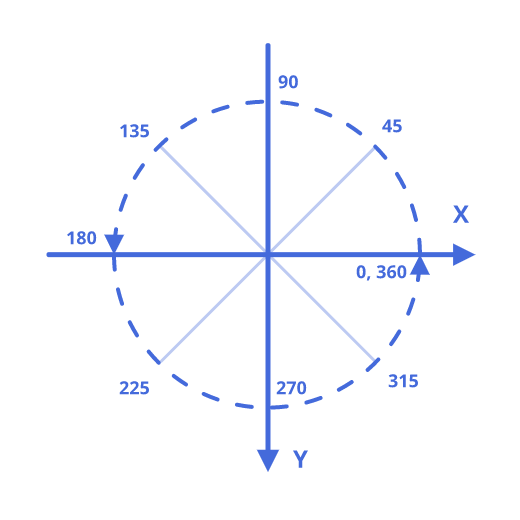
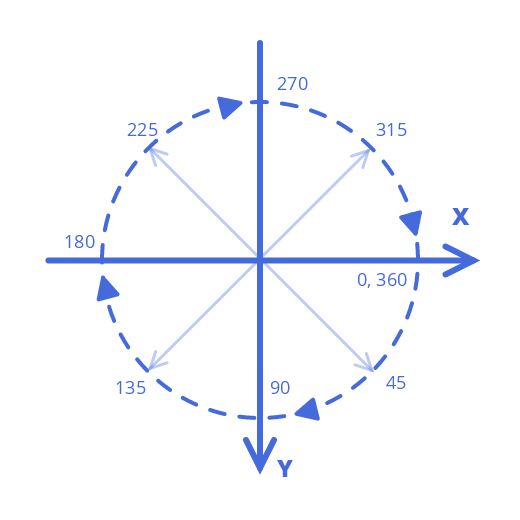
:zap: Update docs on this.angle, this.rotation

diff --git a/docs/tut-polishing-jettycat.md b/docs/tut-polishing-jettycat.md
@@ -46,7 +46,7 @@ ct.transition.circleIn(500, 0x446ADB);
 
 We can also show up our UI layers (the pause menu and the score screen) by making them transparent but slowly turning them opaque. We will use `ct.tween` there — that one catmod that is used by `ct.transition`.
 
-Most entities in ct.js have the same parameters that allow you to tweak their look and feel. We've been using `this.scale.x` and `this.scale.y` to set a copy's scale, but we can also apply it to rooms, text labels, special effects, and so on. Besides scaling, there are parameters `this.rotation`, `this.alpha` and `this.tint` that rotate an object, set its opacity and color correspondingly.
+Most entities in ct.js have the same parameters that allow you to tweak their look and feel. We've been using `this.scale.x` and `this.scale.y` to set a copy's scale, but we can also apply it to rooms, text labels, special effects, and so on. Besides scaling, there are parameters `this.angle`, `this.alpha` and `this.tint` that rotate an object, set its opacity and color correspondingly.
 
 We will change the property `this.alpha` through time. It is a number between 0 and 1. When set to 1 — its initial value —, a copy or a room will be fully opaque. When set to 0, it will be invisible. Any numbers in-between will bake an object partially transparent. The module `ct.tween` will help create a smooth transition of it.
 
@@ -219,25 +219,25 @@ Particles help liven up the game, but it still may feel stiff and static. Let's 
 
 ### Rotating the cat
 
-Every copy has a parameter `this.rotation`, that sets the visual rotation of a texture in degrees. Each copy also has `this.speed` and `this.direction` we've used, and they both define additional parameters `this.vspeed` and `this.hspeed` — the vertical and horizontal speed decomposed from speed and direction. These two can be negative values when a copy moves in the opposite direction from how the axis goes. (E.g. the X-axis points to the right, its values grow from left to right. Moving to the right makes positive `hspeed`, moving to the left makes negative `hspeed`.)
+Every copy has a parameter `this.angle`, that sets the visual angle of a texture in degrees. Each copy also has `this.speed` and `this.direction` we've used, and they both define additional parameters `this.vspeed` and `this.hspeed` — the vertical and horizontal speed decomposed from speed and direction. These two can be negative values when a copy moves in the opposite direction from how the axis goes. (E.g. the X-axis points to the right, its values grow from left to right. Moving to the right makes positive `hspeed`, moving to the left makes negative `hspeed`.)
 
-We can tie `this.vspeed` and `this.rotation` of a cat together so that it rotates when falling or flying up. It is done by simply assigning one value to another in the Draw tab.
+We can tie `this.vspeed` and `this.angle` of a cat together so that it rotates when falling or flying up. It is done by simply assigning one value to another in the Draw tab.
 
 This line will work:
 
 ```js
-this.rotation = this.vspeed;
+this.angle = -this.vspeed;
 ```
 
 Though it will result in a too strong rotation. Adding a multiplier will make it look better:
 
 ```js
-this.rotation = this.vspeed * 0.3;
+this.angle = -this.vspeed * 0.3;
 ```
 
 ### Rotating the stars
 
-With stars, we can't simply tie `this.rotation` to some ct.js' value. We can define our own, though, an apply a bit of math to turn numbers into nice wiggles. This all will remind you of spawning timers.
+With stars, we can't simply tie `this.angle` to some ct.js' value. We can define our own, though, an apply a bit of math to turn numbers into nice wiggles. This all will remind you of spawning timers.
 
 Open the `Star` type, and add this line to its On Create tab:
 
@@ -249,7 +249,7 @@ Then, in the Draw tab, add this tab:
 
 ```js
 this.wiggleTime += ct.delta * 0.2;
-this.rotation = Math.sin(this.wiggleTime) * 5;
+this.angle = Math.sin(this.wiggleTime) * 5;
 ```
 
 Here we change `this.wiggleTime` at each frame by the elapsed time, multiplied by 0.2 to slow down the animation. Then we use `Math.sin` to get a sinus of the `wiggleTime` — changing the latter at each frame will result in a smooth oscillation between -1 and 1. By multiplying it by 5, we make the effect five times stronger.

diff --git a/docs/Copy.md b/docs/Copy.md
@@ -17,9 +17,9 @@ Property | Type | Description
 `xstart`, `ystart` | `number` | The coordinates at which a copy was created.
 `speed` | `number` | Movement speed (or the length of vector `[hspeed; vspeed]`).
 `hspeed`, `vspeed` | `number` | Horizontal and vertical speed.
-`direction` | `number` | Movement direction (from 0 to 360).
+`direction` | `number` | Movement direction (from 0 to 360, from right side going clock-wise).
 `gravity` | `number` | Gravity force, as an amount of `speed` added at each frame.
-`gravityDir` | `number` | Gravity direction (from 0 to 360, default is 270).
+`gravityDir` | `number` | Gravity direction (from 0 to 360, default is 90).
 
 You can also call `this.addSpeed` to add speed vector to a Copy in a given direction.
 
@@ -38,7 +38,7 @@ There are a number of parameters that can be changed:
 |`alpha` | `number` | The opacity of the copy. 0 makes a copy invisible, 1 is the default (fully opaque) mode. All in between will make a gradual transparency change.|
 |`blendMode` | `PIXI.BLEND_MODES` (`number`) | How to mix the copy with the rest of the world. Defaults to `PIXI.BLEND_MODES.NORMAL`. Can be one of: <ul><li>`PIXI.BLEND_MODES.NORMAL`</li> <li>`PIXI.BLEND_MODES.ADD`</li> <li>`PIXI.BLEND_MODES.MULTIPLY`</li><li>`PIXI.BLEND_MODES.SCREEN`</li></ul>|
 |`depth` | `number` | The drawing layer.|
-|`rotation` | `number` | The rotation of the copy in degrees.|
+|`angle` | `number` | The rotation of the copy in degrees ranging from 0 to 360, starting from right side and going clock-wise.|
 |`scale` | `PIXI.ObservablePoint` | The scale factor of the object. You can either assign a simple value (`this.scale = 0.5;`) for uniform scaling or access its `x` and `y` compounds (`this.scale.x = 0.5;`).|
 |`tex` | `string` | The name of a ct.js texture to use. Setting `this.tex = 'NewTexture';` will change the displayed texture and reset animation. |
 |`tint` | `number` | The tint applied to the sprite. This is a hex value. A value of `0xFFFFFF` will remove any tint effect. The colors are the same as in CSS but with `0x` instead of `#`, e.g. `0xFF0000` is red, `0x00FFFF` is cyan, ect.|

diff --git a/docs/tut-making-shooter.md b/docs/tut-making-shooter.md
@@ -335,10 +335,10 @@ Let's write some code to red bullets. Add this code to `On Create` section of La
 this.speed = 8;
 this.direction = 270;
 
-this.rotation = ct.random.deg();
+this.angle = ct.random.deg();
 ```
 
-`this.rotation` rotates a copy's texture. `ct.random.deg()` returns a random value between 0 and 360, which is handy while defining angular values.
+`this.angle` rotates a copy's texture. `ct.random.deg()` returns a random value between 0 and 360, which is handy while defining angular values.
 
 ::: tip
 There is also `this.scale.x` and `this.scale.y`, which sets a copy's horizontal and vertical scale accordingly, and `this.alpha` which manipulates its opacity (0 means fully transparent, 1 — fully opaque).
@@ -353,10 +353,10 @@ if (this.y > ct.viewHeight + 40) {
 
 this.move();
 
-this.rotation += 4 * ct.delta;
+this.angle -= 4 * ct.delta;
 ```
 
-`this.rotation += 4 * ct.delta;` means that we will rotate a Copy by approximately 4 degrees at each step.
+`this.angle -= 4 * ct.delta;` means that we will rotate a Copy by approximately 4 degrees at each step. `ct.delta` will balance out stuff if the game suffers from inconsistent FPS.
 
 We will define logic for destroying player's ship later. For now, it's time to add enemy and asteroid generation during the playtime.
 
